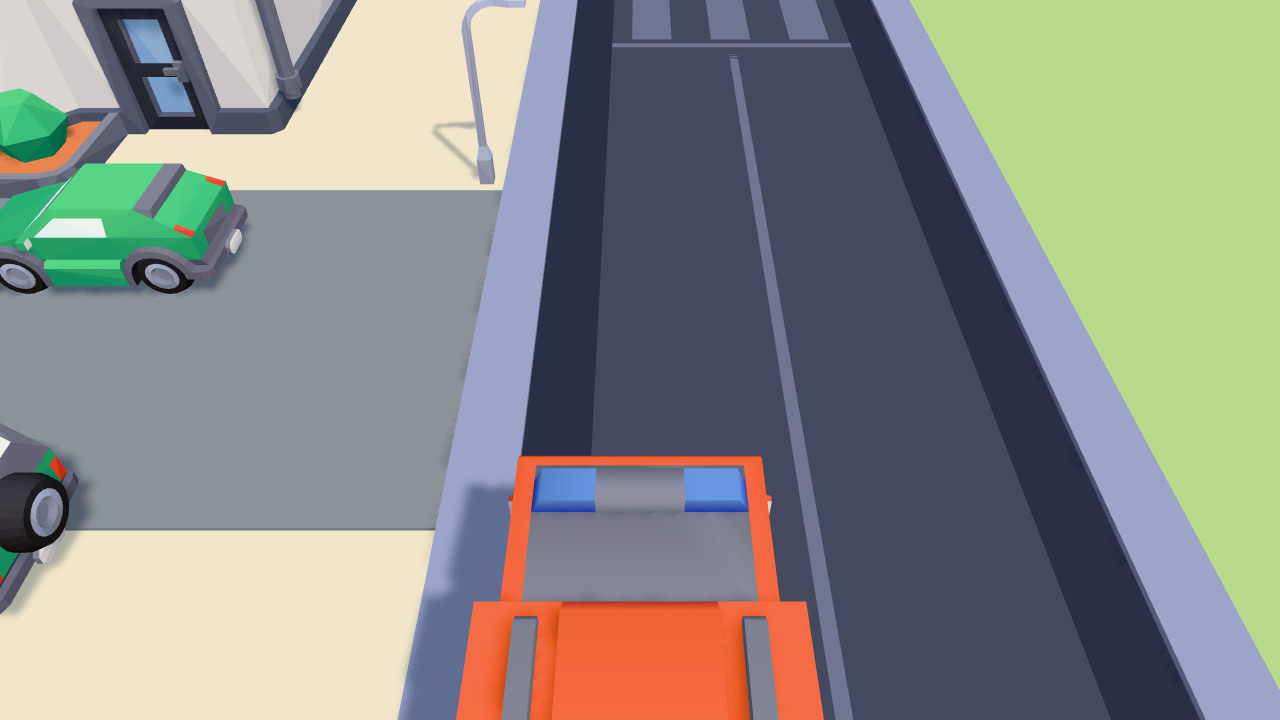
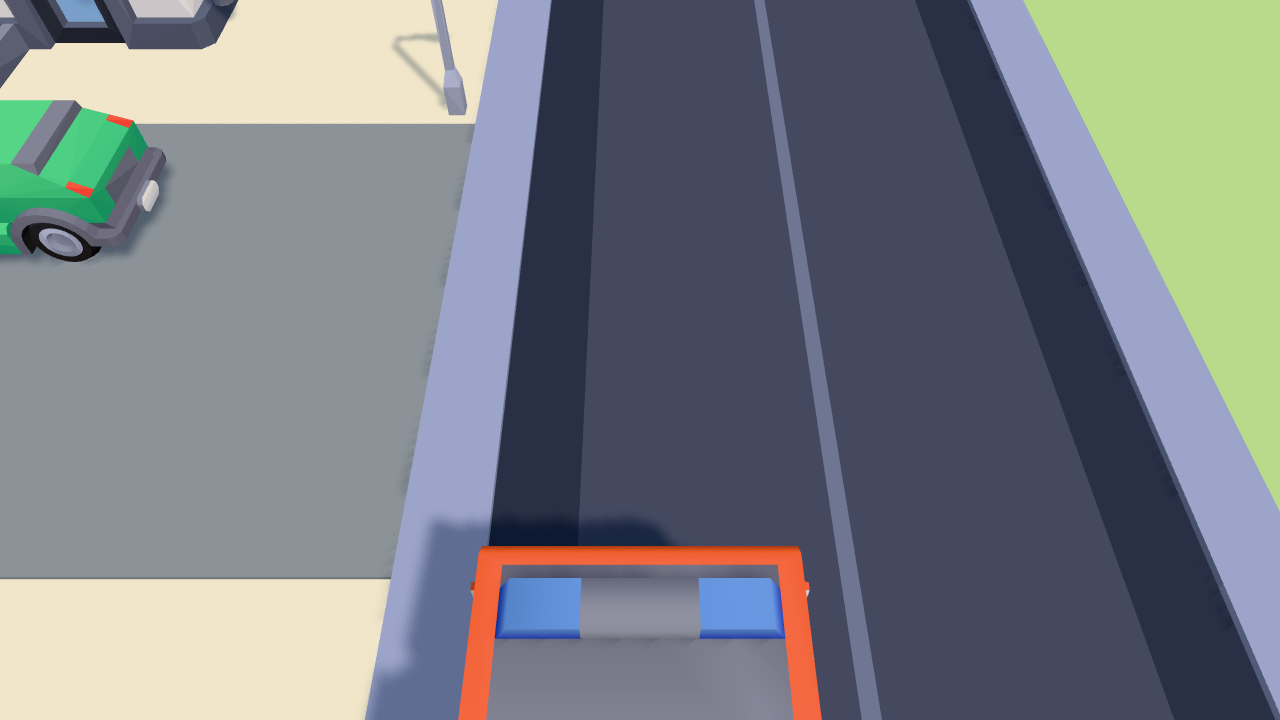
Pedestrians: villagers stroll the sidewalks and flee the truck
- 14 merged-mesh villagers near the player, walking along sidewalks of real
  streets (road-grid aware, rails excluded), respawn past 130m
- panic flee when the truck comes within 12m: they run directly away with a
  frantic bob and lean; they can never be run over (no collision)
- engine: bakeObjectToMesh merges any object tree into one draw call

diff --git a/src/games/city/pedestrians.ts b/src/games/city/pedestrians.ts
@@ -1,0 +1,101 @@
+// Pedestrians: villagers walking the sidewalks near the player. They flee the
+// truck when it gets close (they can never be run over — no collision, they
+// just panic and scatter). Each villager is merged into one mesh at creation.
+import * as THREE from 'three';
+import { makeVillager } from '../../kit/index.js';
+import { bakeObjectToMesh } from '../../engine/baked.js';
+import { RoadGrid } from '../../worlds/roadGrid.js';
+
+interface Ped {
+  mesh: THREE.Mesh;
+  /** true: walks along X beside a horizontal (z = idx*CH) street */
+  alongX: boolean;
+  idx: number;
+  dir: number;
+  speed: number;
+  phase: number;
+}
+
+export class Pedestrians {
+  private peds: Ped[] = [];
+
+  constructor(private scene: THREE.Scene, private grid: RoadGrid, private CH: number, count = 14) {
+    // a few distinct merged villager bodies, shared across the pedestrians
+    const variants: Array<{ geo: THREE.BufferGeometry; mat: THREE.Material }> = [];
+    for (let i = 0; i < 4; i++) {
+      const m = bakeObjectToMesh(makeVillager());
+      variants.push({ geo: m.geometry, mat: m.material as THREE.Material });
+    }
+    for (let i = 0; i < count; i++) {
+      const v = variants[i % variants.length];
+      const mesh = new THREE.Mesh(v.geo, v.mat);
+      mesh.castShadow = true;
+      scene.add(mesh);
+      const p: Ped = { mesh, alongX: true, idx: 0, dir: 1, speed: 1, phase: Math.random() * 10 };
+      this.peds.push(p);
+      this.respawn(p, 0, 0);
+    }
+  }
+
+  /** Place a pedestrian on a sidewalk of a real street near (px, pz). */
+  respawn(p: Ped, px: number, pz: number): void {
+    for (let tries = 0; tries < 12; tries++) {
+      const alongX = Math.random() < 0.5;
+      const idx = Math.round((alongX ? pz : px) / this.CH) + ((Math.random() * 3) | 0) - 1;
+      if (RoadGrid.isRail(idx) || !(alongX ? this.grid.hasZ(idx) : this.grid.hasX(idx))) continue;
+      const side = Math.random() < 0.5 ? -1 : 1;
+      const offset = side * (5.8 + Math.random() * 1.4);
+      const along = (alongX ? px : pz) + (Math.random() - 0.5) * 140;
+      p.alongX = alongX;
+      p.idx = idx;
+      p.dir = Math.random() < 0.5 ? -1 : 1;
+      p.speed = 0.8 + Math.random() * 0.6;
+      p.phase = Math.random() * 10;
+      if (alongX) p.mesh.position.set(along, 0.1, idx * this.CH + offset);
+      else p.mesh.position.set(idx * this.CH + offset, 0.1, along);
+      p.mesh.rotation.set(0, Math.random() * Math.PI * 2, 0);
+      return;
+    }
+  }
+
+  update(dt: number, truckX: number, truckZ: number, px: number, pz: number): void {
+    for (const p of this.peds) {
+      const pos = p.mesh.position;
+      const dx = pos.x - truckX, dz = pos.z - truckZ;
+      const d = Math.hypot(dx, dz);
+
+      if (d < 12) {
+        // panic: run straight away from the truck
+        const inv = 1 / (d || 1);
+        const runX = dx * inv * 4 * dt, runZ = dz * inv * 4 * dt;
+        pos.x += runX;
+        pos.z += runZ;
+        p.mesh.rotation.y = Math.atan2(runX, runZ);
+        p.mesh.rotation.x = 0.18;
+        pos.y = 0.1 + Math.abs(Math.sin((p.phase += dt * 14))) * 0.16;
+      } else {
+        // stroll along the sidewalk
+        p.mesh.rotation.x = 0;
+        const move = p.dir * p.speed * dt;
+        if (p.alongX) {
+          pos.x += move;
+          p.mesh.rotation.y = p.dir > 0 ? Math.PI / 2 : -Math.PI / 2;
+        } else {
+          pos.z += move;
+          p.mesh.rotation.y = p.dir > 0 ? 0 : Math.PI;
+        }
+        pos.y = 0.1 + Math.abs(Math.sin((p.phase += dt * 6))) * 0.04;
+        if (d > 130) this.respawn(p, px, pz);
+      }
+    }
+  }
+
+  /** debug: current pedestrian spots */
+  list(): Array<{ x: number; z: number; y: number }> {
+    return this.peds.map(p => ({
+      x: +p.mesh.position.x.toFixed(1),
+      z: +p.mesh.position.z.toFixed(1),
+      y: +p.mesh.position.y.toFixed(2),
+    }));
+  }
+}

diff --git a/src/engine/baked.ts b/src/engine/baked.ts
@@ -97,3 +97,30 @@ export class Baked {
     return m;
   }
 }
+
+/** Merge an object tree into a single vertex-colored mesh (one draw call). */
+export function bakeObjectToMesh(g: THREE.Object3D): THREE.Mesh {
+  const b = new Baked();
+  g.updateMatrixWorld(true);
+  g.traverse(node => {
+    if (!(node instanceof THREE.Mesh) || !node.geometry) return;
+    let geo = node.geometry.index ? node.geometry.toNonIndexed() : node.geometry.clone();
+    for (const name of Object.keys(geo.attributes)) {
+      if (name !== 'position' && name !== 'normal' && name !== 'uv') geo.deleteAttribute(name);
+    }
+    const mesh = node as THREE.Mesh;
+    const std = (Array.isArray(mesh.material) ? mesh.material[0] : mesh.material) as THREE.MeshLambertMaterial;
+    const col = std && std.color ? std.color : new THREE.Color(0x888888);
+    const pos = geo.attributes.position as THREE.BufferAttribute;
+    const colors = new Float32Array(pos.count * 3);
+    for (let i = 0; i < pos.count; i++) {
+      colors[i * 3] = col.r;
+      colors[i * 3 + 1] = col.g;
+      colors[i * 3 + 2] = col.b;
+    }
+    geo.setAttribute('color', new THREE.BufferAttribute(colors, 3));
+    geo.applyMatrix4(node.matrixWorld);
+    b.raw(geo);
+  });
+  return b.build();
+}

diff --git a/src/games/city/index.ts b/src/games/city/index.ts
@@ -10,6 +10,7 @@ import { ChunkManager } from './chunks.js';
 import { Traffic } from './traffic.js';
 import { Trains } from './train.js';
 import { PatrolHeli } from './patrol.js';
+import { Pedestrians } from './pedestrians.js';
 import { RoadGrid } from '../../worlds/roadGrid.js';
 import { Missions } from './missions.js';
 import * as sprayMod from './spray.js';
@@ -135,6 +136,9 @@ const traffic = new Traffic(scene, roadGrid, 64, 8, V.fly ? ['/assets/kenney/fir
 // circles the neighbourhood while the kid plays the fire truck ----
 const trains = new Trains(scene, 64);
 const patrol = V.fly ? null : new PatrolHeli(scene);
+const pedestrians = new Pedestrians(scene, roadGrid, 64, 14);
+// dev probe: current pedestrian spots (via console/window)
+(window as unknown as { __peds: () => unknown }).__peds = () => pedestrians.list();
 
 // ---- particles ----
 const particles = new Particles(scene);
@@ -279,6 +283,7 @@ const tick = (): void => {
   // ambient life: the trains and the patrol helicopter
   trains.update(elapsed, st.x, st.z);
   patrol?.update(dt, elapsed, st.x, st.z);
+  pedestrians.update(dt, st.x, st.z, st.x, st.z);
 
   // ambient life
   traffic.update(dt, elapsed, player.car.position);
